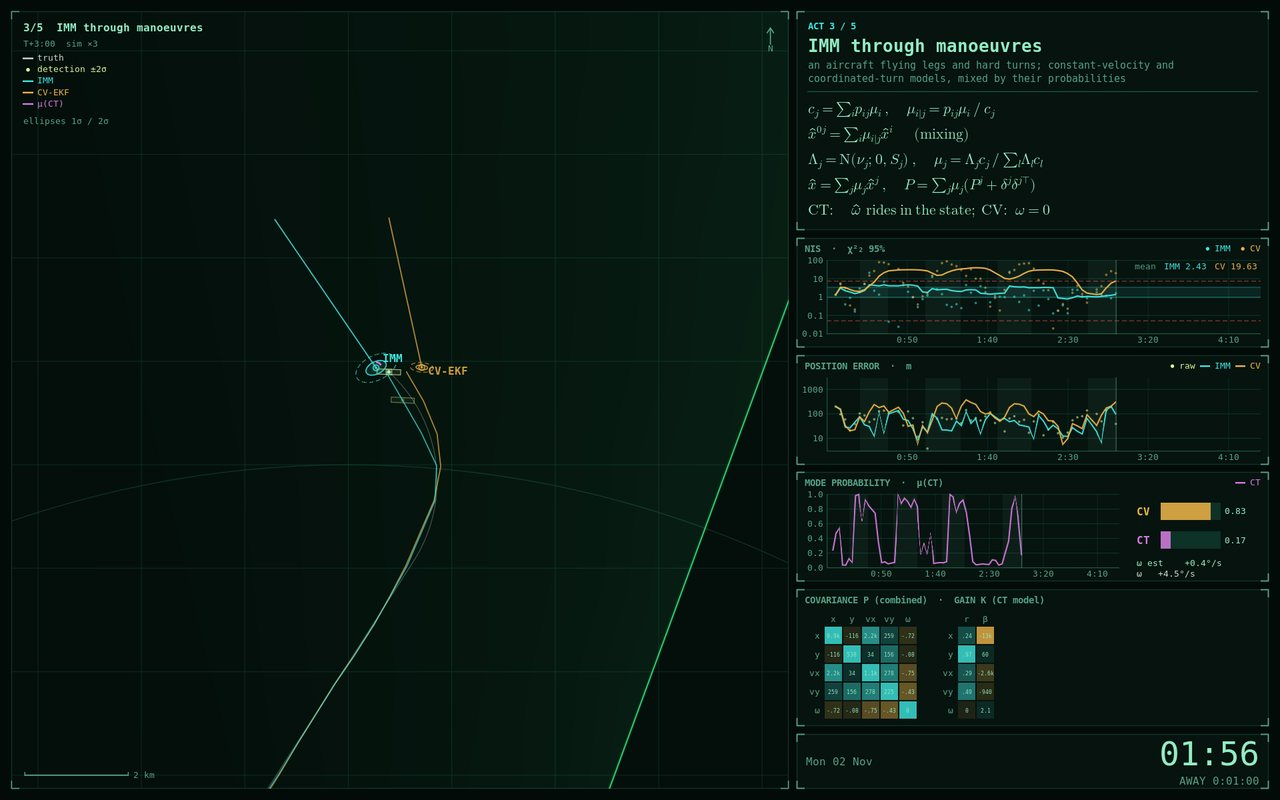
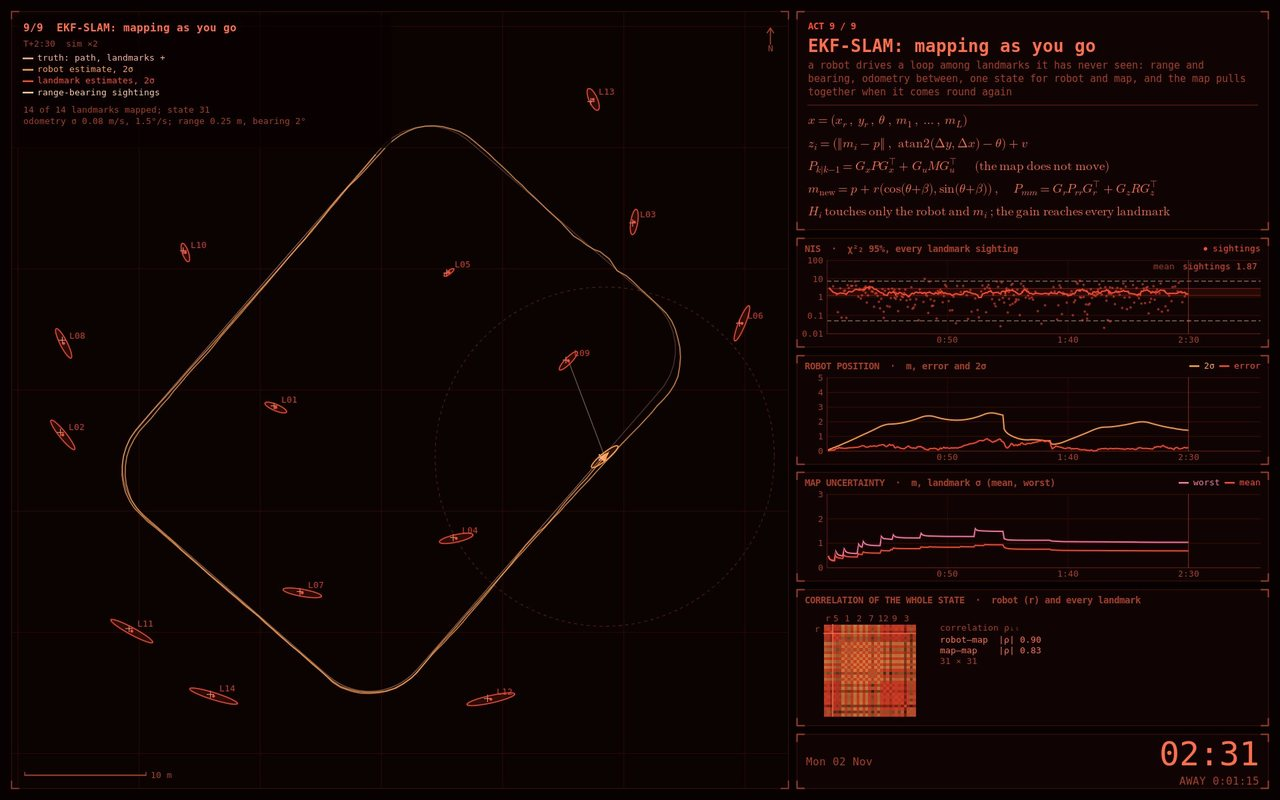
README: kalman's nine acts

diff --git a/README.md b/README.md
@@ -91,7 +91,7 @@ in `savers.sh`.
 | ![algorithms](docs/img/algorithms.jpg) | **algorithms**: sorting and maze algorithms at work: 22 sorts shown as bars, dots, a colour wheel, a picture sorting itself back together and sorting networks; 11 maze generators and 6 solvers. On a wall, sorts race each other screen by screen, or one maze spans them all. |
 | ![netflow](docs/img/netflow.jpg) | **netflow**: the machine's own networking as a live stack diagram: packets flowing through interfaces, IP and TCP/UDP/ICMP to the sockets, per-interface scopes and connection-state dials. Aggregate counters from /proc only: no addresses, ports or captures. |
 | ![clocktower](docs/img/clocktower.jpg) | **clocktower**: a lonely stone clock tower on a rock in the bay, its broken wall showing the movement and pendulum. The dials keep real time and the bell strikes the hours; the causeway floods and drains with a tide worked out from the real Moon and Sun; drums on the turret count the time away. |
-| ![kalman](docs/img/kalman.jpg) | **kalman**: state estimation on a tactical display: Kalman, extended and unscented filters, an interacting-multiple-model tracker through manoeuvres, a particle filter on bearings only, and multi-target tracking in clutter, with typeset equations, consistency charts against χ² bounds and the filters' matrices as live heatmaps. |
+| ![kalman](docs/img/kalman.jpg) | **kalman**: state estimation in nine acts: Kalman, extended and unscented filters, an IMM tracker through manoeuvres, a particle filter on bearings only, multi-target tracking in clutter, an RTS smoother through GPS outages, sensor fusion in information form with covariance intersection, float32 square-root vs naive updates, and EKF-SLAM closing a loop. Typeset equations, χ² consistency charts and the filters' matrices as live heatmaps. |
 | ![neural](docs/img/neural.jpg) | **neural**: neural networks learning live, trained on the CPU with hand-written backprop: a SIREN painting a picture, a classifier finding its decision boundary, a character model learning to write away messages, and optimisers racing down a loss surface. |
 | ![orbits](docs/img/orbits.jpg) | **orbits**: a mission-control trajectory display: Hohmann and bi-elliptic transfers, Earth to Mars from today's real ephemeris with a live porkchop plot, a Jupiter flyby, the Earth–Moon three-body problem with its Lagrange points, a Walker constellation's ground tracks, and orbital decay. |
 | ![fdtd](docs/img/fdtd.jpg) | **fdtd**: Maxwell's equations solved live on a GPU Yee grid with absorbing boundaries: dipoles, a steered phased array, a Yagi, a horn, a dish, lenses, a waveguide bend, a photonic crystal, slits, total internal reflection and a ringing cavity, with far-field polar plots measured from the field. |
